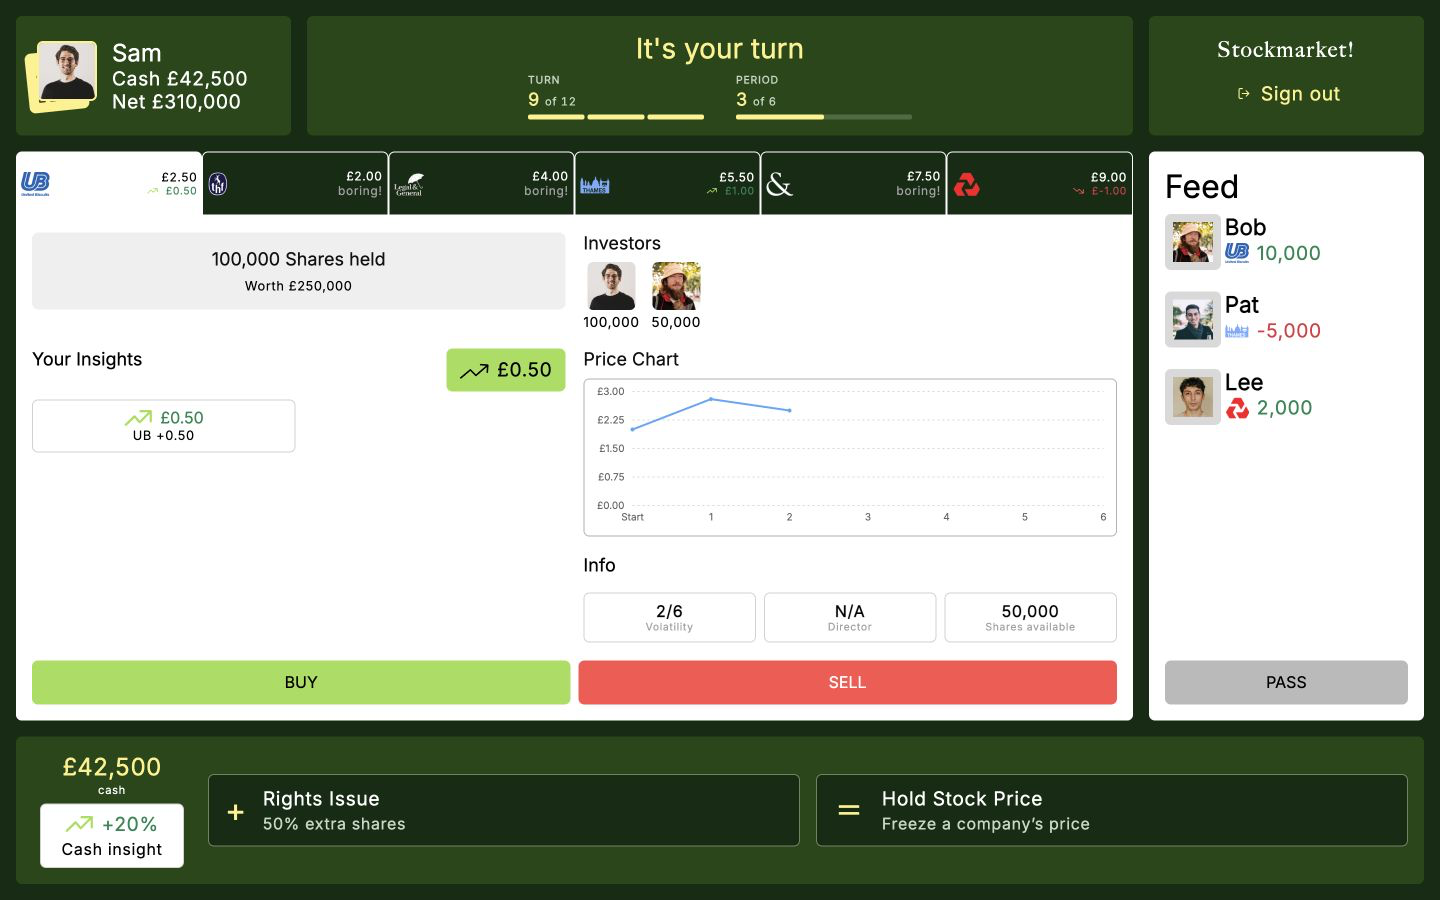
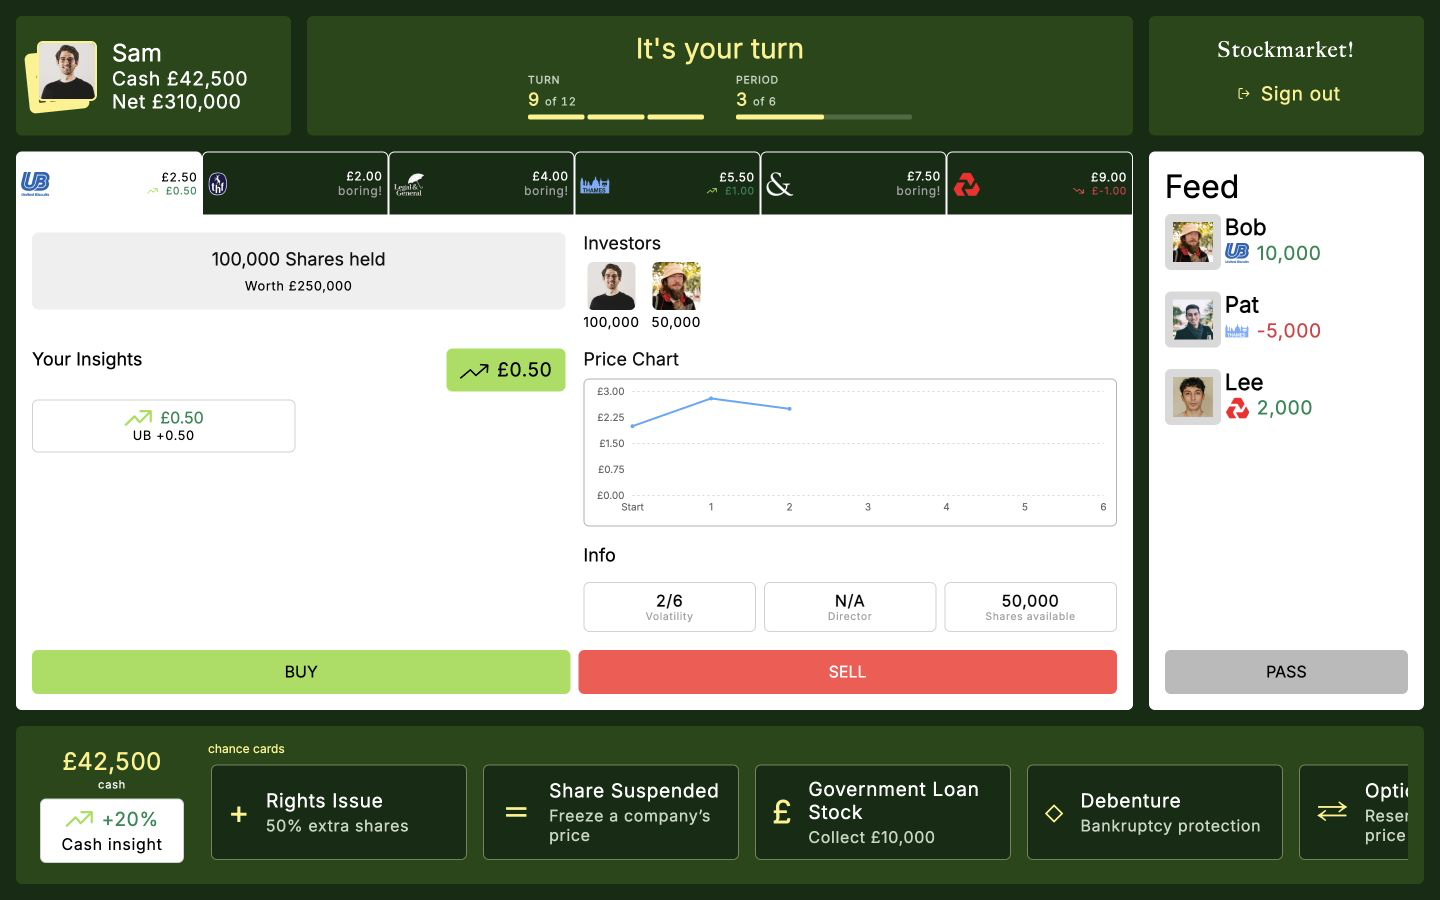
Show all five chance cards in an independently scrolling strip

diff --git a/src/PlayerDock.tsx b/src/PlayerDock.tsx
@@ -3,16 +3,19 @@ import type { Board } from "./types";
 import "./player-dock.css";
 
 // Names and effects follow BOARD_GAME_DIFFERENCES_CURRENT.md.
-const powerUps = [
-    { name: "Rights Issue", kind: "rights", icon: "+", effect: "50% extra shares", description: "Choose a company. All holders receive 50% extra shares, rounded down.", timing: "Applies to all holders of the chosen company" },
-    { name: "Hold Stock Price", kind: "hold", icon: "＝", effect: "Freeze a company’s price", description: "Choose one company to suspend. Its share price stays unchanged when this period settles.", timing: "Choose a company before period-end settlement" },
+const chanceCards = [
+    { name: "Rights Issue", kind: "rights", icon: "+", effect: "50% extra shares", description: "Choose a company. All holders receive 50% extra shares, rounded down.", timing: "Played as a bargain under the general chance-card rule; the individual card entry does not specify a turn cost" },
+    { name: "Share Suspended", kind: "hold", icon: "＝", effect: "Freeze a company’s price", description: "Choose one company to suspend. Its share price stays at the previous period’s level when this period settles. This card cannot be retained.", timing: "Play at the end of the round" },
+    { name: "Government Loan Stock", kind: "loan", icon: "£", effect: "Collect £10,000", description: "Your Government Loan Stock has matured. Collect £10,000 from the stockbroker.", timing: "Uses one bargain (turn)" },
+    { name: "Debenture", kind: "debenture", icon: "◇", effect: "Bankruptcy protection", description: "Retain this card as insurance. If a company goes bankrupt, claim the full purchase price of shares you still hold in that company.", timing: "Claim within two rounds of the bankruptcy" },
+    { name: "Option", kind: "option", icon: "⇄", effect: "Reserve a buy or sell price", description: "Choose a company and reserve its current share price for a future purchase or sale. Exercise the option and surrender the card within three periods.", timing: "Reserving the price and exercising the option each use one turn" },
 ];
 
-/** POC only: power-ups and cash insights are examples, never trading mutations. */
+/** POC only: chance cards and cash insights are examples, never trading mutations. */
 export function PlayerDock({ board }: { board: Board })
 {
     return (
-        <section id="player-dock" className="card card-green rounded p-3" style={{ backgroundColor: "var(--bs-card-bg)" }} aria-label="Your cash, power-ups and cash insights">
+        <section id="player-dock" className="card card-green rounded p-3" style={{ backgroundColor: "var(--bs-card-bg)" }} aria-label="Your cash, chance cards and cash insights">
             <div className="dock-cash">
                 <strong className="dock-balance">
                     £
@@ -28,8 +31,9 @@ export function PlayerDock({ board }: { board: Board })
                 </div>
             </div>
             <div className="dock-powers">
-                <div className="dock-power-cards">
-                    {powerUps.map((power) => (
+                <h2 id="chance-cards-label">chance cards</h2>
+                <div className="dock-power-cards" role="region" aria-labelledby="chance-cards-label">
+                    {chanceCards.map((power) => (
                         <button key={power.kind} type="button" className={`dock-power-card dock-power-${power.kind}`} data-bs-toggle="modal" data-bs-target={`#power-preview-${power.kind}`} aria-label={`Preview ${power.name}: ${power.effect}`}>
                             <span className="dock-power-icon" aria-hidden="true">{power.icon}</span>
                             <span className="dock-power-copy">
@@ -40,7 +44,7 @@ export function PlayerDock({ board }: { board: Board })
                     ))}
                 </div>
             </div>
-            {powerUps.map((power) => (
+            {chanceCards.map((power) => (
                 <Modal key={power.kind} id={`power-preview-${power.kind}`} title={power.name}>
                     <div className="modal-body dock-power-detail">
                         <span className="dock-preview">Coming soon · Example card</span>

diff --git a/src/player-dock.css b/src/player-dock.css
@@ -19,8 +19,10 @@
 #player-dock .dock-cash-insight .total-insight { font-size: 1.2rem; line-height: 1.2; }
 #player-dock .dock-cash-insight .total-insight span { font-size: inherit; }
 #player-dock .dock-cash-insight p { font-size: 1rem; margin: 0; }
-.dock-power-cards { display: grid; grid-template-columns: repeat(2, minmax(0, 1fr)); gap: 1rem; }
-.dock-power-card { display: flex; align-items: center; gap: 1rem; min-height: 4.5rem; padding: 0.75rem 1rem; border: 1px solid #70845b; border-radius: 0.375rem; background: #0f2c12; color: white; text-align: left; }
+#player-dock .dock-powers h2 { margin: 0 0 0.25rem; color: #fff284; font-size: 0.75rem; font-weight: 400; }
+.dock-power-cards { display: flex; gap: 1rem; overflow-x: auto; overscroll-behavior-x: contain; padding: 0.25rem 0.2rem 0.5rem; scrollbar-width: thin; scrollbar-color: #70845b #0f2c12; }
+.dock-power-cards:focus-visible { outline: 2px solid #fff284; outline-offset: 2px; }
+.dock-power-card { flex: 0 0 16rem; display: flex; align-items: center; gap: 1rem; min-height: 4.5rem; padding: 0.75rem 1rem; border: 1px solid #70845b; border-radius: 0.375rem; background: #0f2c12; color: white; text-align: left; }
 .dock-power-card:hover { background: #304f24; border-color: #fff284; }
 .dock-power-card:focus-visible { outline: 2px solid #fff284; outline-offset: 3px; }
 #player-dock .dock-power-icon { flex-shrink: 0; color: #fff284; font-size: 2rem; line-height: 1; }
@@ -39,7 +41,7 @@
     #player-dock .dock-cash-insight p { font-size: 0.85rem; }
     #player-dock .dock-cash-insight .total-insight { font-size: 1.1rem; }
     .dock-power-cards { gap: 0.5rem; }
-    .dock-power-card { flex-direction: column; justify-content: center; gap: 0.4rem; padding: 0.5rem 0.35rem; min-height: 5rem; text-align: center; }
+    .dock-power-card { flex-basis: 7.25rem; flex-direction: column; justify-content: center; gap: 0.4rem; padding: 0.5rem 0.35rem; min-height: 5rem; text-align: center; }
     #player-dock .dock-power-icon { font-size: 1.5rem; }
     .dock-power-copy strong { font-size: 0.85rem; }
     #player-dock .dock-power-copy > span { display: none; }

diff --git a/experiments/README.md b/experiments/README.md
@@ -3,7 +3,7 @@
 Branch: `poc/player-cash-dock`.
 
 The playing board now reserves a full-width bottom row for the current player's
-cash, two example power-up cards, and one compact cash insight beneath the balance.
+cash, all five example chance cards, and one compact cash insight beneath the balance.
 Stock and portfolio details scroll within the shorter middle panel. The dock
 and trade buttons stay visible. The desktop feed ends above the dock.
 
@@ -41,12 +41,19 @@ unchanged and not part of this feature commit.
   stationary. Final browser check reports no warnings/errors or missing images.
 - Screenshots are saved as PNG files in `../screenshots/`.
 
-## Dummy special-card references
+## Dummy chance-card references
 
-The two example cards follow `BOARD_GAME_DIFFERENCES_CURRENT.md`:
+All five examples follow the “Chance cards” schedule in the rules reproduced at
+https://patents.google.com/patent/EP0297870A1/en#description, also summarized in
+`BOARD_GAME_DIFFERENCES_CURRENT.md`:
 
-- **Rights Issue:** chosen company grants 50% extra shares to all holders, rounded down.
-- **Hold Stock Price** (**Share Suspended** in the board-game comparison): suppress one company's end-of-period price movement.
+- **Rights Issue:** 50% extra shares for all holders of the chosen company.
+- **Share Suspended:** freeze one company's price at period end; cannot be retained.
+- **Government Loan Stock:** collect £10,000 using one turn.
+- **Debenture:** retain bankruptcy insurance; claim within two rounds of bankruptcy.
+- **Option:** reserve a price and exercise within three periods, using a turn each time.
 
-The document also lists Government Loan Stock, Debenture, and Option. The dock
-shows two example cards rather than suggesting every special card is owned.
+The general rules define exercising a chance card as a bargain (turn), but the
+individual Rights Issue entry does not explicitly state the turn cost. The demo
+explains this distinction in its preview dialog. Only the chance-card strip
+scrolls horizontally; cash and its private insight remain fixed beside it.
